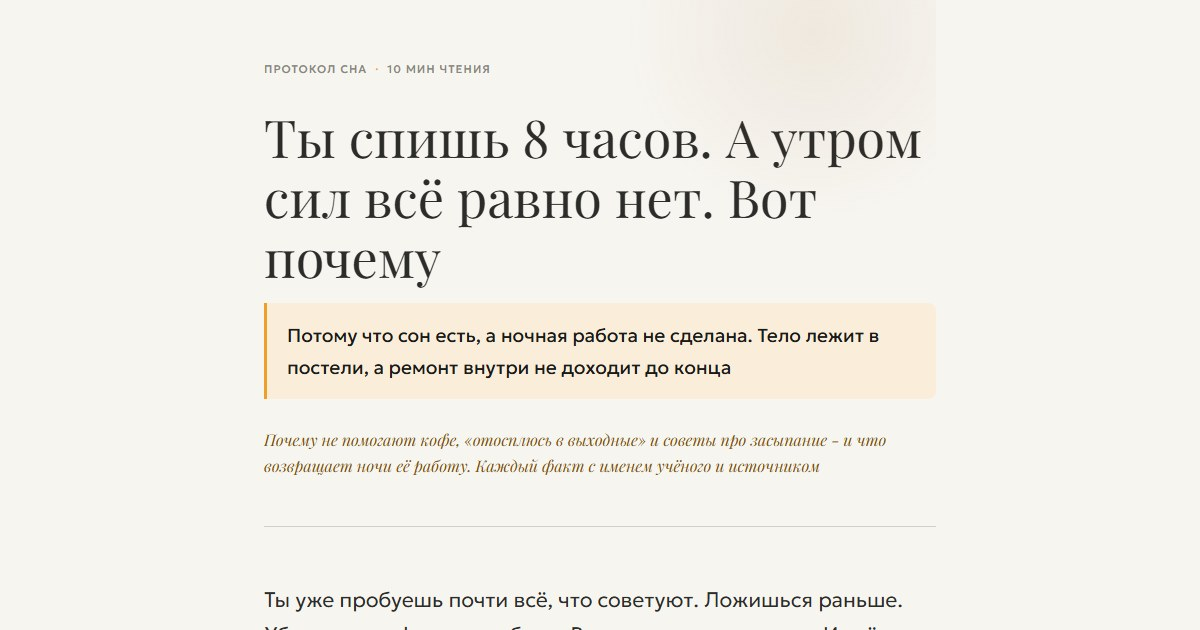
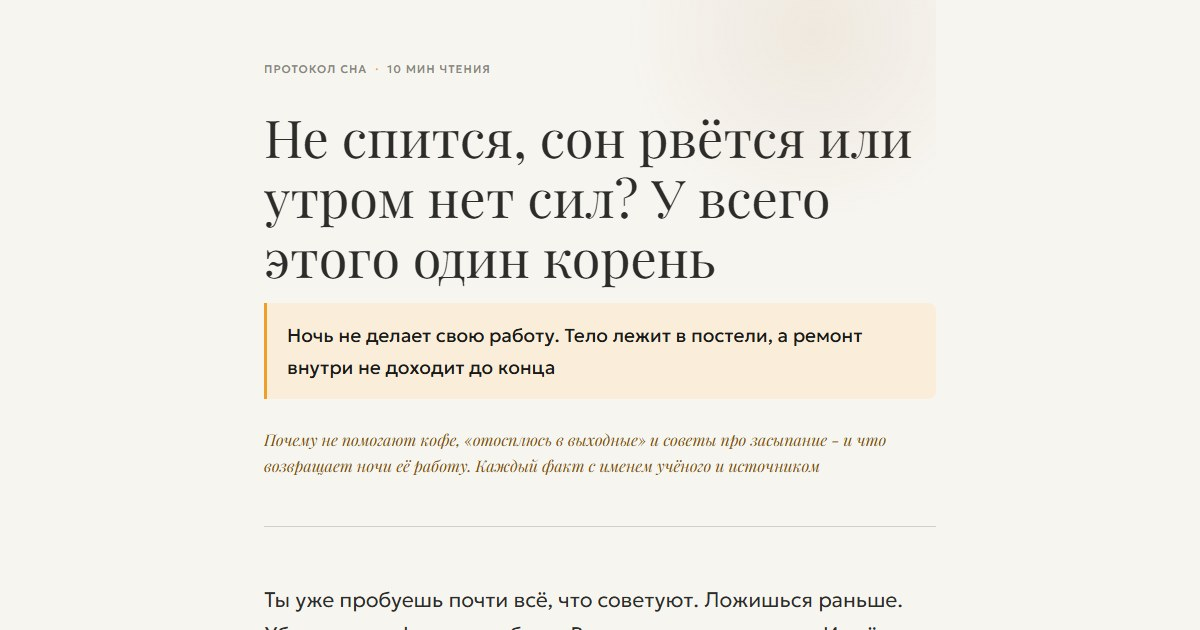
Протокол сна: широкий вход в статью - новый заголовок и навигатор по 7 механизмам

diff --git a/article.html b/article.html
@@ -3,33 +3,33 @@
 <head>
 <meta charset="UTF-8">
 <meta name="viewport" content="width=device-width, initial-scale=1.0">
-<title>Ты спишь 8 часов. А утром сил всё равно нет. Вот почему</title>
-<meta name="description" content="Сон есть, а ночная работа не сделана: мозг не домывается, тело не чинится, вчерашняя тревога ждёт утром. 7 механизмов, у каждого имя учёного и источник.">
+<title>Не спится, сон рвётся или утром нет сил? У всего этого один корень</title>
+<meta name="description" content="Не спится, просыпаешься в 4 утра или спишь 8 часов и встаёшь без сил: у разных проблем со сном часто один корень - ночь не делает свою работу. 7 механизмов, у каждого имя учёного и источник.">
 <meta name="robots" content="index, follow">
 <link rel="canonical" href="https://bodycodelab.github.io/son/article.html">
 <meta property="og:type" content="article">
-<meta property="og:title" content="Ты спишь 8 часов. А утром сил всё равно нет. Вот почему">
-<meta property="og:description" content="Сон есть, а ночная работа не сделана: мозг не домывается, тело не чинится, вчерашняя тревога ждёт утром. 7 механизмов, у каждого имя учёного и источник.">
+<meta property="og:title" content="Не спится, сон рвётся или утром нет сил? У всего этого один корень">
+<meta property="og:description" content="Не спится, просыпаешься в 4 утра или спишь 8 часов и встаёшь без сил: у разных проблем со сном часто один корень - ночь не делает свою работу. 7 механизмов, у каждого имя учёного и источник.">
 <meta property="og:url" content="https://bodycodelab.github.io/son/article.html">
 <meta property="og:locale" content="ru_RU">
 <meta property="og:image" content="https://bodycodelab.github.io/son/cover-son.jpg">
 <meta property="og:image:width" content="1200">
 <meta property="og:image:height" content="630">
 <meta name="twitter:card" content="summary_large_image">
-<meta name="twitter:title" content="Ты спишь 8 часов. А утром сил всё равно нет. Вот почему">
-<meta name="twitter:description" content="Сон есть, а ночная работа не сделана: мозг не домывается, тело не чинится, вчерашняя тревога ждёт утром. 7 механизмов, у каждого имя учёного и источник.">
+<meta name="twitter:title" content="Не спится, сон рвётся или утром нет сил? У всего этого один корень">
+<meta name="twitter:description" content="Не спится, просыпаешься в 4 утра или спишь 8 часов и встаёшь без сил: у разных проблем со сном часто один корень - ночь не делает свою работу. 7 механизмов, у каждого имя учёного и источник.">
 <meta name="twitter:image" content="https://bodycodelab.github.io/son/cover-son.jpg">
 <script type="application/ld+json">
 {
   "@context": "https://schema.org",
   "@type": "Article",
-  "headline": "Ты спишь 8 часов. А утром сил всё равно нет. Вот почему",
-  "description": "Сон есть, а ночная работа не сделана: мозг не домывается, тело не чинится, вчерашняя тревога ждёт утром. 7 механизмов, у каждого имя учёного и источник.",
+  "headline": "Не спится, сон рвётся или утром нет сил? У всего этого один корень",
+  "description": "Не спится, просыпаешься в 4 утра или спишь 8 часов и встаёшь без сил: у разных проблем со сном часто один корень - ночь не делает свою работу. 7 механизмов, у каждого имя учёного и источник.",
   "url": "https://bodycodelab.github.io/son/article.html",
   "mainEntityOfPage": "https://bodycodelab.github.io/son/article.html",
   "image": "https://bodycodelab.github.io/son/cover-son.jpg",
   "datePublished": "2026-09-06",
-  "dateModified": "2026-10-16",
+  "dateModified": "2026-10-17",
   "inLanguage": "ru",
   "author": {
     "@type": "Organization",
@@ -276,6 +276,11 @@
  .nm-result { margin-top: 18px; padding: 16px 18px; border-radius: 10px; background: var(--amber-light); font-size: 16px; line-height: 1.55; }
  .nm-result b { color: var(--amber); }
  .nm-src { font: 11px 'JetBrains Mono', monospace; color: var(--text-light); margin-top: 10px; }
+ .entry-nav { display: flex; flex-direction: column; gap: 8px; margin: 18px 0 8px; }
+ .entry-link { display: flex; gap: 14px; align-items: baseline; padding: 12px 16px; background: var(--bg-card); border: 1px solid var(--border-light); border-radius: 12px; color: inherit; text-decoration: none; font-size: 16px; line-height: 1.45; }
+ .entry-link:hover, .entry-link:focus-visible { border-color: var(--amber-border); }
+ .entry-num { font-family: 'Playfair Display', serif; color: var(--amber); font-size: 18px; min-width: 22px; }
+ .mechanism { scroll-margin-top: 16px; }
 </style>
 </head>
 <body>
@@ -284,8 +289,8 @@
  <div class="article-header">
  <div class="header-glow"></div>
  <div class="meta-line reveal">Протокол сна <span class="meta-dot">&middot;</span> 10 мин чтения</div>
- <h1 class="article-title reveal">Ты спишь 8 часов. А утром сил всё равно нет. Вот почему</h1>
- <div class="article-subtitle reveal">Потому что сон есть, а ночная работа не сделана. Тело лежит в постели, а ремонт внутри не доходит до конца</div>
+ <h1 class="article-title reveal">Не спится, сон рвётся или утром нет сил? У&nbsp;всего этого один корень</h1>
+ <div class="article-subtitle reveal">Ночь не делает свою работу. Тело лежит в постели, а ремонт внутри не доходит до конца</div>
  <div class="article-deck reveal">Почему не помогают кофе, «отосплюсь в выходные» и советы про засыпание - и что возвращает ночи её работу. Каждый факт с именем учёного и источником</div>
  </div>
 
@@ -305,7 +310,16 @@
  </div>
  <p class="big-idea reveal">Дело не в том, <strong>сколько</strong> ты спишь. Дело в том, что <strong>ночь не делает свою работу</strong></p>
  <p>Сон - это не выключенный режим. Это ночная смена, у которой четыре задания: промыть мозг от того, что накопилось за день, починить тело в глубокой фазе, разобрать эмоции дня в быстром сне и выставить внутренние часы на завтра. Если смена не закрыта, утро начинается с долгом. Сколько бы часов ни прошло в постели</p>
- <p>Ниже 7 механизмов: как устроена эта смена, почему она срывается и почему её не чинит то, что ты уже пробуешь</p>
+ <p>Ниже 7 механизмов: как устроена эта смена, почему она срывается и почему её не чинит то, что ты уже пробуешь. Начни с того, что про тебя:</p>
+ <div class="entry-nav">
+ <a class="entry-link" href="#m06"><span class="entry-num">06</span><span>Не получается уснуть: в постели включается голова</span></a>
+ <a class="entry-link" href="#m01"><span class="entry-num">01</span><span>Сон рвётся среди ночи или его срезает будильник</span></a>
+ <a class="entry-link" href="#m04"><span class="entry-num">04</span><span>После бокала вина просыпаешься в 4-5 утра</span></a>
+ <a class="entry-link" href="#m03"><span class="entry-num">03</span><span>Кофе не бодрит, а сил всё меньше</span></a>
+ <a class="entry-link" href="#m02"><span class="entry-num">02</span><span>Утром голова как в вате</span></a>
+ <a class="entry-link" href="#m05"><span class="entry-num">05</span><span>«Мне норм 6 часов», а выходные не спасают</span></a>
+ <a class="entry-link" href="#m07"><span class="entry-num">07</span><span>Вчерашняя тревога встречает утром</span></a>
+ </div>
  </div>
 
  <div class="body-text">
@@ -355,7 +369,7 @@
  </div>
  </div>
 
- <div class="mechanism">
+ <div class="mechanism" id="m01">
  <div class="mechanism-number">01</div>
  <div class="section-title">Ночь - это смена по расписанию. И её можно срезать с двух концов</div>
  <p>За ночь мозг проходит 4-6 циклов примерно по 90 минут. Но работа в них распределена неравно. Глубокий медленный сон, в котором чинится тело, собран в первой трети ночи. Быстрый сон, в котором мозг разбирает эмоции и закрепляет память, - в последней трети</p>
@@ -385,7 +399,7 @@
  </div>
  </div>
 
- <div class="mechanism">
+ <div class="mechanism" id="m02">
  <div class="mechanism-number">02</div>
  <div class="section-title">Пока ты спишь, мозг моется. Если ночь не доделана - не домывается</div>
  <p>В 2013 году Майкен Недергаард из Университета Рочестера показала: во сне пространство между клетками мозга расширяется примерно на 60%. Туда идёт спинномозговая жидкость и вымывает то, что накопилось за день. В том числе бета-амилоид - белок, который связывают с болезнью Альцгеймера</p>
@@ -402,7 +416,7 @@
  </div>
  </div>
 
- <div class="mechanism">
+ <div class="mechanism" id="m03">
  <div class="mechanism-number">03</div>
  <div class="section-title">Почему кофе не даёт энергию, а прячет усталость</div>
  <p>Кофеин не бодрит - он блокирует рецепторы аденозина, вещества, которое копится в мозге за день и сигналит об усталости. Сигнал не доходит до сознания, а сама усталость никуда не девается - <span class="hl">она продолжает копиться под блокировкой</span>. И ночью тот же кофеин мешает глубокой фазе, даже если засыпаешь без проблем</p>
@@ -427,7 +441,7 @@
  </div>
  </div>
 
- <div class="mechanism">
+ <div class="mechanism" id="m04">
  <div class="mechanism-number">04</div>
  <div class="section-title">Почему бокал вина перед сном забирает утро</div>
  <p>Бокал вина перед сном кажется безобидным, но уже примерно с двух порций быстрый сон начинается позже и его становится меньше. И чем больше выпито, тем больше его теряется. Ночь вроде была, а разбор эмоций дня не случился</p>
@@ -443,7 +457,7 @@
  </div>
  </div>
 
- <div class="mechanism">
+ <div class="mechanism" id="m05">
  <div class="mechanism-number">05</div>
  <div class="section-title">Недосып, который перестаёт ощущаться. И выходные, которые его не закрывают</div>
  <p>В исследовании Ханса Ван Донгена и Дэвида Динджеса (Пенсильванский университет, 2003) людей две недели держали на 6 часах сна. Сонливость у них быстро вышла на плато: казалось, что организм привык. А тесты на внимание ухудшались все 14 дней подряд</p>
@@ -460,7 +474,7 @@
  </div>
  </div>
 
- <div class="mechanism">
+ <div class="mechanism" id="m06">
  <div class="mechanism-number">06</div>
  <div class="section-title">Почему сама попытка уснуть иногда и есть причина, по которой не спится</div>
  <p>Знакомая ситуация: тело устало весь вечер - а как только ложишься в постель, голова включается на полную. Это не случайность и не характер. Постель за годы связывается в мозге не с сигналом «спать», а с сигналом «наконец есть время подумать обо всём, что откладывалось весь день». И тревожные мысли включаются по этой связке</p>
@@ -489,7 +503,7 @@
  </div>
  </div>
 
- <div class="mechanism">
+ <div class="mechanism" id="m07">
  <div class="mechanism-number">07</div>
  <div class="section-title">Почему вчерашняя тревога встречает тебя утром с той же силой</div>
  <p>Сон - не только про тело, но и про то, что мозг делает с пережитым за день. В быстром сне уровень норадреналина, химии стресса, в мозге резко падает. В этом безопасном окне мозг заново проигрывает события дня и снимает с них остроту к утру. Когда быстрого сна не хватает, работа не завершается - <span class="hl">и вчерашняя тревога встречает утром с той же силой, что и вечером</span></p>
